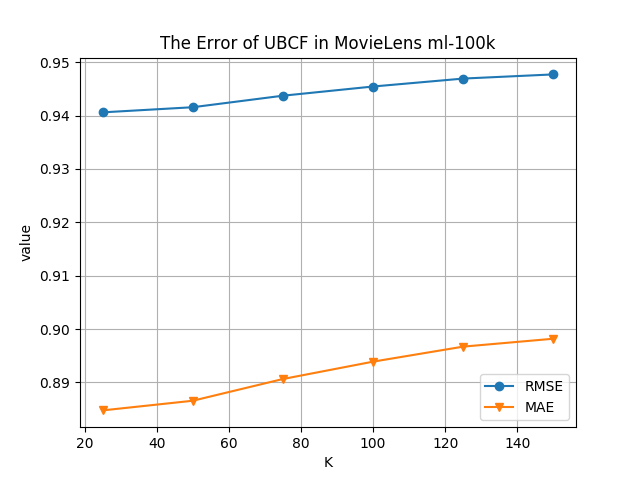
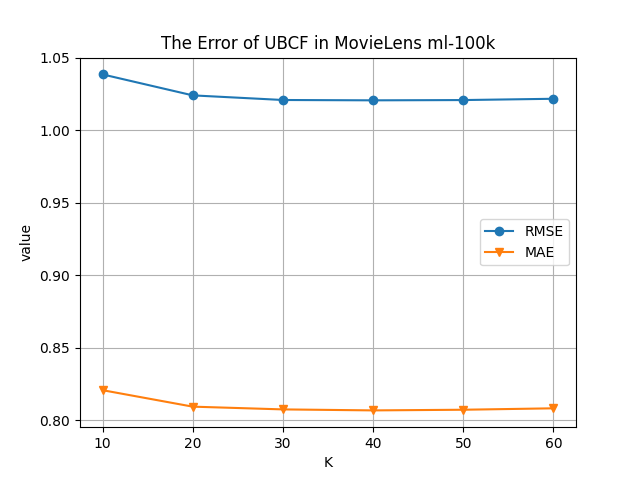
修复MAE计算错误和预测评分计算问题

diff --git a/RunExample.py b/RunExample.py
@@ -58,33 +58,40 @@ if __name__ == '__main__':
     MyUBCF.test_data_matrix = test_data_matrix
     MyIBCF.test_data_matrix = test_data_matrix
 
+    # 皮尔逊相关系数
+    # MyUBCF.SimilityMatrix = np.corrcoef(train_data_matrix)
+    # MyIBCF.SimilityMatrix = np.corrcoef(train_data_matrix.T)
+
+    # # 余弦相似度
     MyUBCF.SimilityMatrix = cosine_similarity(train_data_matrix)
-    MyIBCF.SimilityMatrix = cosine_similarity(train_data_matrix.T)
-    MyUBCF.UserMeanMatrix = numpy.true_divide(MyUBCF.train_data_matrix.sum(1), (MyUBCF.train_data_matrix != 0).sum(1))  # 按X轴方向获取非0元素均值，如果某行所有元素为0返回nan
-    MyIBCF.ItemMeanMatrix = numpy.true_divide(MyUBCF.train_data_matrix.sum(0), (MyUBCF.train_data_matrix != 0).sum(0))  # 按Y轴方向获取非0元素均值，如果某行所有元素为0返回nan
-    MyIBCF.ItemMeanMatrix[np.isnan(MyIBCF.ItemMeanMatrix)] = 0
-    KList = [25, 50, 75, 100, 125, 150]
+    # MyIBCF.SimilityMatrix = cosine_similarity(train_data_matrix.T)
+
+    # 按X轴方向获取非0元素均值，如果某行所有元素为0返回nan，横着，求对应用户所有电影得平均分
+    MyUBCF.UserMeanMatrix = np.true_divide(MyUBCF.train_data_matrix.sum(1), (MyUBCF.train_data_matrix != 0).sum(1))
+    # 按Y轴方向获取非0元素均值，如果某行所有元素为0返回nan，竖着，求该物品得所有用户平均分
+    # MyIBCF.ItemMeanMatrix = numpy.true_divide(MyUBCF.train_data_matrix.sum(0), (MyUBCF.train_data_matrix != 0).sum(0))
+    # MyIBCF.ItemMeanMatrix[np.isnan(MyIBCF.ItemMeanMatrix)] = 0
+    KList = [10, 20, 30, 40, 50, 60]
     for i in range(len(KList)):
         MyUBCF.truerating = []
         MyUBCF.predictions = []
-        MyIBCF.truerating = []
-        MyIBCF.predictions = []
+        # MyIBCF.truerating = []
+        # MyIBCF.predictions = []
 
         medTime = datetime.datetime.now()
         print((medTime - startTime).seconds)
         t1 = Thread(target=MyUBCF.doEvaluate, args=(test_data_matrix, KList[i]))
-        t2 = Thread(target=MyIBCF.doEvaluate, args=(test_data_matrix, KList[i]))
+        # t2 = Thread(target=MyIBCF.doEvaluate, args=(test_data_matrix, KList[i]))
         t1.start()
-        t2.start()
+        # t2.start()
         t1.join()
-        t2.join()
+        # t2.join()
 
         endTime = datetime.datetime.now()
         print("Cost time:%d seconds" % (endTime - startTime).seconds)
         Savetxt("Docs/%s/UBCF %s %1.1f.txt" % (myparser.ratings, myparser.ratings, myparser.testsize),
                 "UBCF  K=%d\tRMSE:%f\tMAE:%f\t" % (KList[i], MyUBCF.RMSE[KList[i]], MyUBCF.MAE[KList[i]]))
-        Savetxt('Docs/%s/IBCF %s %1.1f.txt' % (myparser.ratings, myparser.ratings, myparser.testsize),
-                "IBCF  K=%d\tRMSE:%f\tMAE:%f\t" % (KList[i], MyIBCF.RMSE[KList[i]], MyIBCF.MAE[KList[i]]))
+        # Savetxt('Docs/%s/IBCF %s %1.1f.txt' % (myparser.ratings, myparser.ratings, myparser.testsize),"IBCF  K=%d\tRMSE:%f\tMAE:%f\t" % (KList[i], MyIBCF.RMSE[KList[i]], MyIBCF.MAE[KList[i]]))
     # Check performance by plotting train and test errors
     plt.plot(KList, list(MyUBCF.RMSE.values()), marker='o', label='RMSE')
     plt.plot(KList, list(MyUBCF.MAE.values()), marker='v', label='MAE')
@@ -97,12 +104,12 @@ if __name__ == '__main__':
     plt.show()
     plt.gcf().clear()
     # Check performance by plotting train and test errors
-    plt.plot(KList, list(MyIBCF.RMSE.values()), marker='o', label='RMSE')
-    plt.plot(KList, list(MyIBCF.MAE.values()), marker='v', label='MAE')
-    plt.title('The Error of IBCF in MovieLens ' + myparser.ratings)
-    plt.xlabel('K')
-    plt.ylabel('value')
-    plt.legend()
-    plt.grid()
-    plt.savefig('Docs/%s/IBCF %s %1.1f.png' % (myparser.ratings, myparser.ratings, myparser.testsize))
-    plt.show()
+    # plt.plot(KList, list(MyIBCF.RMSE.values()), marker='o', label='RMSE')
+    # plt.plot(KList, list(MyIBCF.MAE.values()), marker='v', label='MAE')
+    # plt.title('The Error of IBCF in MovieLens ' + myparser.ratings)
+    # plt.xlabel('K')
+    # plt.ylabel('value')
+    # plt.legend()
+    # plt.grid()
+    # plt.savefig('Docs/%s/IBCF %s %1.1f.png' % (myparser.ratings, myparser.ratings, myparser.testsize))
+    # plt.show()

diff --git a/User_basedCF.py b/User_basedCF.py
@@ -1,5 +1,3 @@
-#! python3
-# -*- coding: utf-8 -*-
 from DataHelper import *
 from EvaluationHelper import *
 
@@ -14,21 +12,26 @@ class UBCollaborativeFilter(object):
         self.MAE = dict()
         self.UserMeanMatrix = None
 
-    ### 平均加权策略，预测userId对itemId的评分
+    # 平均加权策略，预测userId对itemId的评分
     def getRating(self, Train_data_matrix, userId, simility_matrix, neighborset):
-        simSums = numpy.sum(simility_matrix[neighborset])  # simSums为0，即该项目尚未被其他用户评分，这里的处理方法：返回用户平均分
-        averageOfUser = self.UserMeanMatrix[userId]  # 获取userId 的平均值
-        jiaquanAverage = (Train_data_matrix[neighborset] - self.UserMeanMatrix[neighborset]).dot(simility_matrix[neighborset])  # 计算每个用户的加权，预测
+        # simSums为0，即该项目尚未被其他用户评分，这里的处理方法：返回用户平均分
+        simSums = np.sum(simility_matrix[neighborset])
+        # 获取userId 的平均值
+        averageOfUser = self.UserMeanMatrix[userId]
+        # 计算每个用户的加权，预测得分
+        jiaquanAverage = (Train_data_matrix[neighborset]).dot(simility_matrix[neighborset])
         if simSums == 0:
-            return averageOfUser
+            return 0
         else:
-            return averageOfUser + jiaquanAverage / simSums
+            return jiaquanAverage / simSums
 
     def doEvaluate(self, testDataMatrix, K):
         a, b = testDataMatrix.nonzero()
         for userIndex, itemIndex in zip(a, b):
-            neighborset = get_K_Neighbors(self.train_data_matrix[:, itemIndex], self.SimilityMatrix[userIndex], K)  # 用户最相似的K个用户
-            prerating = self.getRating(self.train_data_matrix[:, itemIndex], userIndex, self.SimilityMatrix[userIndex], neighborset)  # 基于训练集预测用户评分(用户数目<=K)
+            # 用户最相似的K个用户
+            neighborset = get_K_Neighbors(self.train_data_matrix[:, itemIndex], self.SimilityMatrix[userIndex], K)
+            # 基于训练集预测用户评分(用户数目<=K)
+            prerating = self.getRating(self.train_data_matrix[:, itemIndex], userIndex, self.SimilityMatrix[userIndex], neighborset)
             self.truerating.append(testDataMatrix[userIndex][itemIndex])
             self.predictions.append(prerating)
             # print(len(self.predictions))

diff --git a/DataHelper.py b/DataHelper.py
@@ -73,7 +73,7 @@ def LoadMovieLensData(FileType='ml-100k'):
     """
     if FileType == 'ml-100k':
         header = ['user_id', 'item_id', 'rating', 'timestamp']
-        data = pd.read_table('Datas/ml-100k/u.data', header=None, names=header)
+        data = pd.read_table('G:\\PycharmProjects\\Memory-based-collaborative-filtering\\Datas\\ml-100k\\data\\u.data', header=None, names=header)
     elif FileType == 'ml-1M':
         header = ['user_id', 'item_id', 'rating', 'timestamp']
         data = pd.read_table('Datas/ml-1M/ratings.dat', header=None, names=header)

diff --git a/EvaluationHelper.py b/EvaluationHelper.py
@@ -1,13 +1,12 @@
-# -*- coding: utf-8 -*-
-import numpy
-from sklearn.metrics import mean_squared_error
+import numpy as np
+from sklearn.metrics import mean_squared_error, mean_absolute_error
 
 
 def RMSE(true, prediction):
-    rmse = numpy.sqrt(mean_squared_error(true, prediction))
+    rmse = np.sqrt(mean_squared_error(true, prediction))
     return rmse
 
 
 def MAE(true, prediction):
-    mae = mean_squared_error(true, prediction)
+    mae = mean_absolute_error(true, prediction)
     return mae

diff --git a/bak/kNNUnitTest.py b/bak/kNNUnitTest.py
@@ -11,7 +11,7 @@ from User_basedCF import *
 if __name__ == '__main__':
     startTime = datetime.datetime.now()
     # MyData = LoadMovieLens1M()
-    MyData = LoadMovieLens100k('Datas/ml-100k/u.data')
+    MyData = LoadMovieLens100k('G:\\PycharmProjects\\Memory-based-collaborative-filtering\\Datas\\ml-100k\\data\\u.data')
     # MyData = LoadMovieLens10M()
     MyUBCF = UBCollaborativeFilter()
     train_data, test_data = train_test_split(MyData, test_size=0.1)

diff --git a/bak/Intro to Recommender Systems_Collaborative Filtering.py b/bak/Intro to Recommender Systems_Collaborative Filtering.py
@@ -118,7 +118,7 @@ def predict_topk_nobias(ratings, similarity, kind='user', k=20):
     return pred
 
 if __name__ == '__main__':
-    MyData = LoadMovieLens100k('Datas/ml-100k/u.data')
+    MyData = LoadMovieLens100k('G:\\PycharmProjects\\Memory-based-collaborative-filtering\\Datas\\ml-100k\\data\\u.data')
     print(MyData.head())
     n_users = MyData.user_id.unique().shape[0]
     n_items = MyData.item_id.unique().shape[0]

diff --git a/bak/getRating.py b/bak/getRating.py
@@ -8,8 +8,9 @@
 # Created:     14-06-2014  
 # --------------------------------------------------------
 from math import sqrt
-from loadMovieLens import loadMovieLensTrain
-from loadMovieLens import loadMovieLensTest
+from DataHelper import LoadMovieLensData
+# from loadMovieLens import loadMovieLensTrain
+# from loadMovieLens import loadMovieLensTest
 
 
 ### 计算pearson相关度

diff --git a/bak/Test1.py b/bak/Test1.py
@@ -141,7 +141,7 @@ def parseargs():
 
 if __name__ == "__main__":
     parseargs()
-    MyData = LoadMovieLens100k('Datas/ml-100k/u.data')
+    MyData = LoadMovieLens100k('G:\\PycharmProjects\\Memory-based-collaborative-filtering\\Datas\\ml-100k\\data\\u.data')
     print(MyData.head())
     n_users = MyData.user_id.unique().shape[0]
     n_items = MyData.item_id.unique().shape[0]

diff --git a/bak/Test.py b/bak/Test.py
@@ -165,7 +165,7 @@ class UserBasedCF():
 
 
 if __name__ == '__main__':
-    ratingfile = 'Datas/ml-100k/u.data'
+    ratingfile = 'G:\\PycharmProjects\\Memory-based-collaborative-filtering\\Datas\\ml-100k\\data\\u.data'
     usercf = UserBasedCF()
     usercf.generate_dataset(ratingfile)
     usercf.calc_user_sim()
